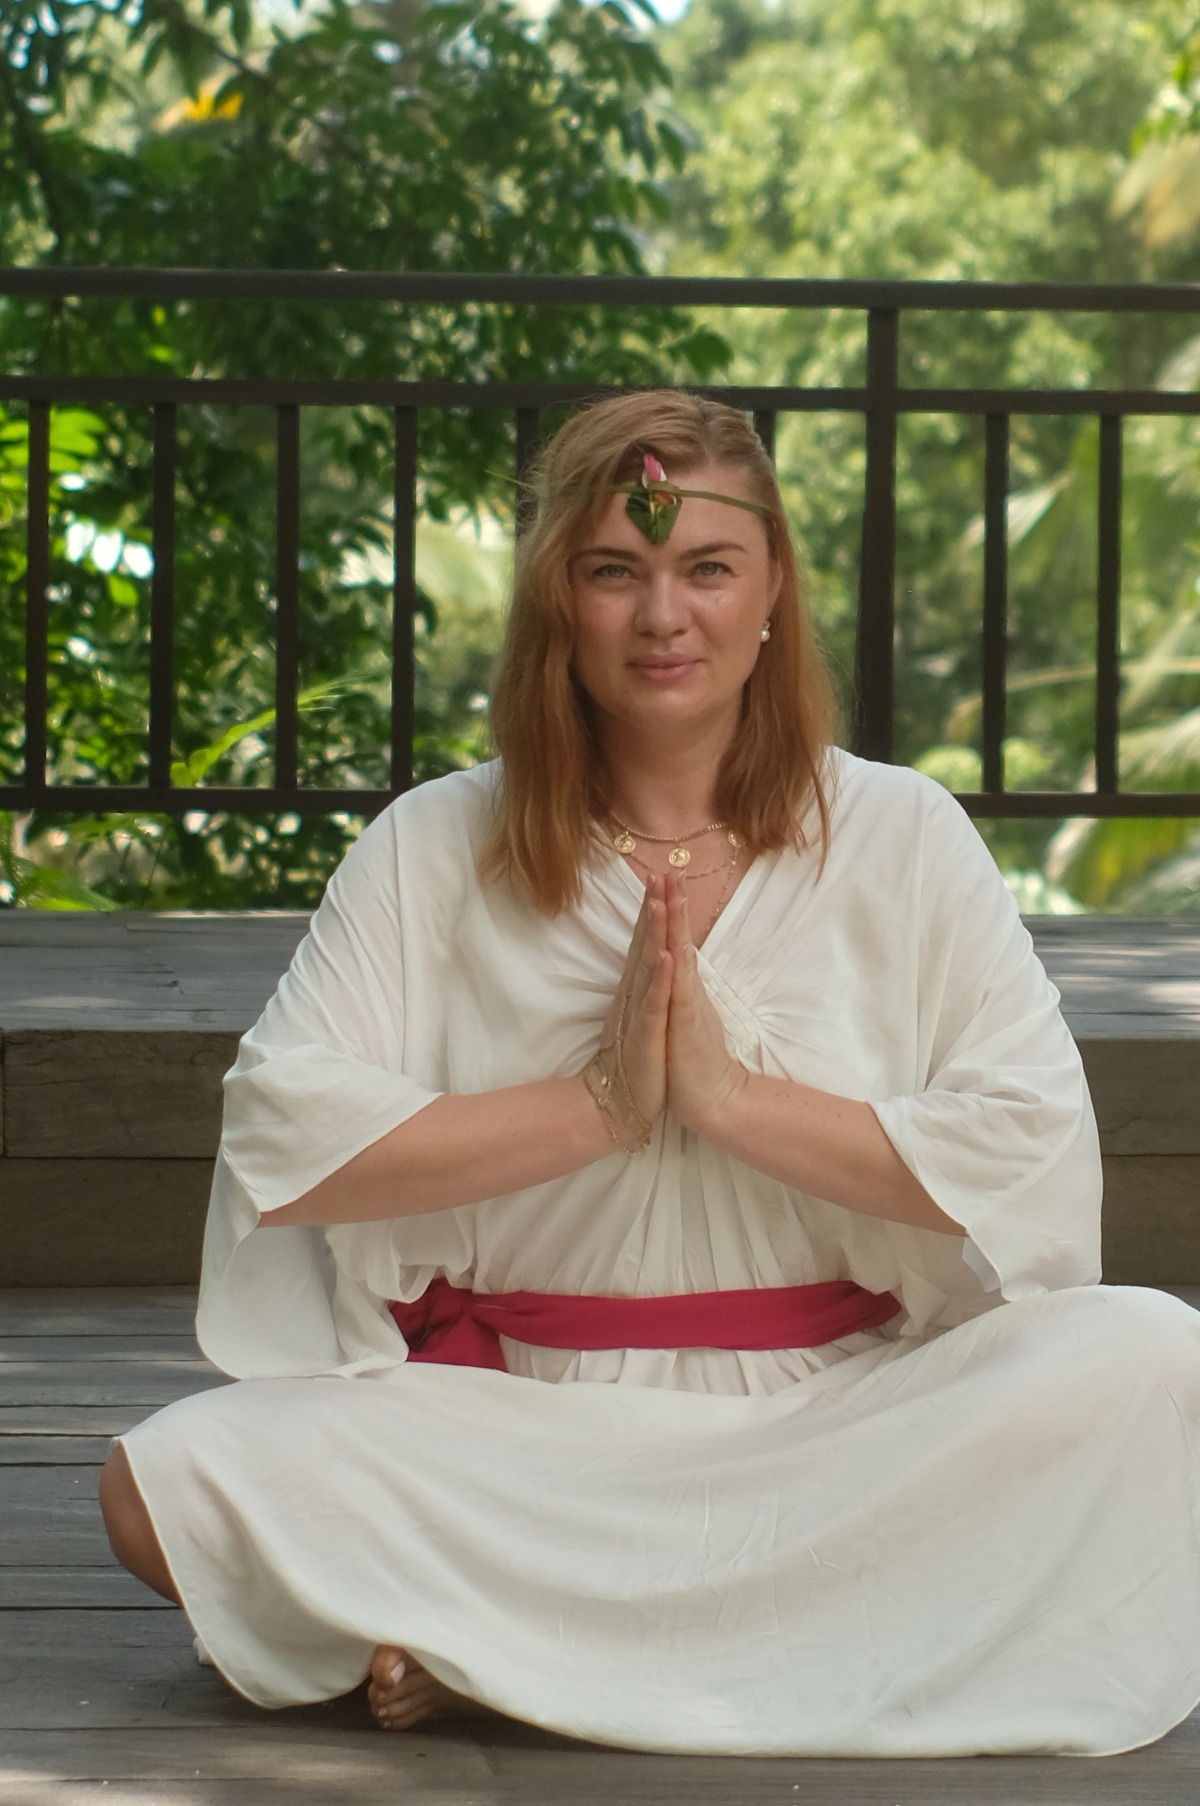
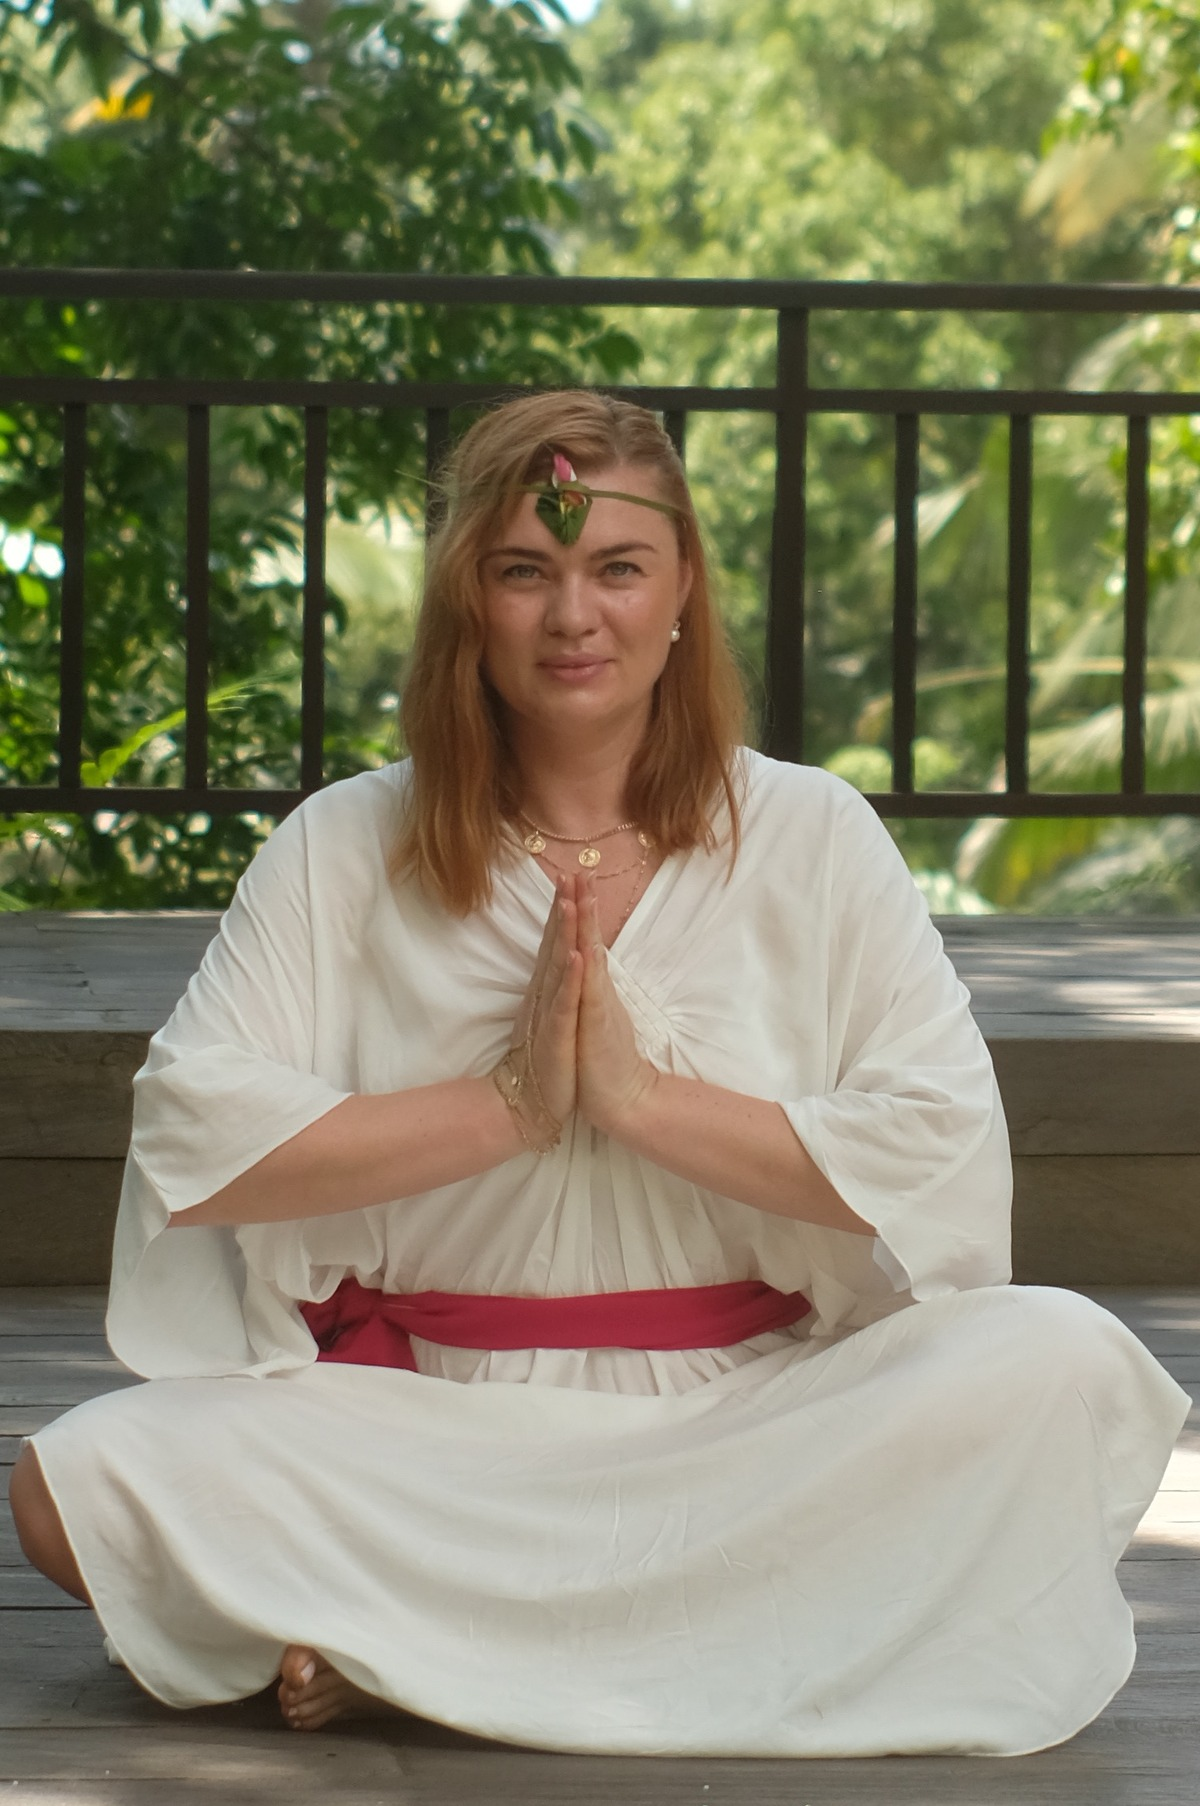
Recenter hero photo on Natalia and darken top scrim for text contrast

diff --git a/styles.css b/styles.css
@@ -185,6 +185,17 @@ h1, h2, h3 {
   background: linear-gradient(0deg, rgba(246, 241, 234, 1) 0%, rgba(246, 241, 234, 0.99) 35%, rgba(246, 241, 234, 0.92) 55%, rgba(246, 241, 234, 0.6) 75%, rgba(246, 241, 234, 0) 100%);
 }
 
+.hero::before {
+  content: "";
+  position: absolute;
+  left: 0;
+  right: 0;
+  top: 0;
+  height: 130px;
+  z-index: 1;
+  background: linear-gradient(180deg, rgba(20, 24, 18, 0.55) 0%, rgba(20, 24, 18, 0.3) 45%, rgba(20, 24, 18, 0) 100%);
+}
+
 .hero > div {
   position: absolute;
   left: 20px;
@@ -769,15 +780,17 @@ h1, h2, h3 {
   font-weight: 600;
   font-size: 20px;
   letter-spacing: 0.01em;
+  text-shadow: 0 1px 10px rgba(0, 0, 0, 0.45);
 }
 
 .hero-top span {
   display: block;
   margin-top: 2px;
-  color: rgba(255, 255, 255, 0.82);
+  color: rgba(255, 255, 255, 0.92);
   font-size: 11px;
   text-transform: uppercase;
   letter-spacing: 0.04em;
+  text-shadow: 0 1px 8px rgba(0, 0, 0, 0.45);
 }
 
 /* promise statement block — decorative circular accent like the reference site */
